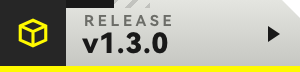
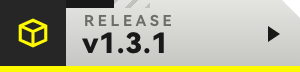
Add a Linux section to the READMEs and point them at v1.3.1
The Linux section links to HyprEndfield, a community Hyprland port by OctoberPrayRain, with its own banner and a warning that it is not made here. The top banners show the latest HUD screenshot and read MACOS / WINDOWS / LINUX, and the release button and download links move to v1.3.1 build 20.

Changed region(s): [[0.48, 0.4444, 0.57, 0.75]]

diff --git a/README.ja.md b/README.ja.md
@@ -1,7 +1,7 @@
-<a href="https://github.com/DDDuoDuo/EndfieldHUD/releases/tag/v1.3.0"><img src="docs/media/readme/panels/hero.ja.png" alt="ENDFIELD HUD：Mac と Windows のためのデスクトップ HUD、v1.3.0" width="100%"></a>
+<a href="https://github.com/DDDuoDuo/EndfieldHUD/releases/tag/v1.3.1"><img src="docs/media/readme/panels/hero.ja.png" alt="ENDFIELD HUD：Mac と Windows のためのデスクトップ HUD、v1.3.1" width="100%"></a>
 
 <p align="center">
-  <a href="https://github.com/DDDuoDuo/EndfieldHUD/releases/tag/v1.3.0"><img src="docs/media/readme/panels/button-release.png" alt="最新リリース v1.3.0" height="36"></a>
+  <a href="https://github.com/DDDuoDuo/EndfieldHUD/releases/tag/v1.3.1"><img src="docs/media/readme/panels/button-release.png" alt="最新リリース v1.3.1" height="36"></a>
   <a href="LICENSE"><img src="docs/media/readme/panels/button-license.png" alt="ライセンス：MIT" height="36"></a>
   <a href="#installation"><img src="docs/media/readme/panels/button-platform.png" alt="プラットフォーム：macOS / Windows" height="36"></a>
   <a href="https://docs.google.com/forms/d/e/1FAIpQLSeDwB4CzTp5kdT5ArjwIcQlvRS9UlVkQnMpGF3OHbYJ1_uBCg/viewform?usp=sharing"><img src="docs/media/readme/panels/button-feedback.ja.png" alt="不具合の報告・ご意見" height="36"></a>
@@ -28,14 +28,14 @@
 
 <img src="docs/media/readme/panels/sub-macos.ja.png" alt="macOS：Apple シリコン / Intel" width="100%">
 
-<a href="https://github.com/DDDuoDuo/EndfieldHUD/releases/tag/v1.3.0"><img src="docs/media/readme/panels/banner-macos.png" alt="macOS：PKG / DMG" width="100%"></a>
+<a href="https://github.com/DDDuoDuo/EndfieldHUD/releases/tag/v1.3.1"><img src="docs/media/readme/panels/banner-macos.png" alt="macOS：PKG / DMG" width="100%"></a>
 
 <sub>※ EndfieldHUD はメニューバーに表示されます。ショートカットひとつで、すべてのアプリの上に HUD が開きます</sub>
 
 <table>
 <tr>
 <td width="120"><img src="docs/media/readme/panels/chip-download.ja.png" alt="ダウンロード" width="112"></td>
-<td><a href="https://github.com/DDDuoDuo/EndfieldHUD/releases/download/v1.3.0/EndfieldHUD-1.3.0-build19-Installer.pkg"><b>PKG インストーラ</b></a> / <a href="https://github.com/DDDuoDuo/EndfieldHUD/releases/download/v1.3.0/EndfieldHUD-1.3.0-build19-macOS.dmg"><b>DMG</b></a> / <a href="https://github.com/DDDuoDuo/EndfieldHUD/releases">すべてのリリース</a></td>
+<td><a href="https://github.com/DDDuoDuo/EndfieldHUD/releases/download/v1.3.1/EndfieldHUD-1.3.1-build20-Installer.pkg"><b>PKG インストーラ</b></a> / <a href="https://github.com/DDDuoDuo/EndfieldHUD/releases/download/v1.3.1/EndfieldHUD-1.3.1-build20-macOS.dmg"><b>DMG</b></a> / <a href="https://github.com/DDDuoDuo/EndfieldHUD/releases">すべてのリリース</a></td>
 </tr>
 <tr>
 <td><img src="docs/media/readme/panels/chip-update.ja.png" alt="アップデート" width="112"></td>
@@ -58,14 +58,14 @@
 
 <img src="docs/media/readme/panels/sub-windows.ja.png" alt="Windows：Windows 11 x64" width="100%">
 
-<a href="https://github.com/DDDuoDuo/EndfieldHUD/releases/tag/v1.3.0"><img src="docs/media/readme/panels/banner-windows.png" alt="Windows：セットアップ（EXE）/ ポータブル版（ZIP）" width="100%"></a>
+<a href="https://github.com/DDDuoDuo/EndfieldHUD/releases/tag/v1.3.1"><img src="docs/media/readme/panels/banner-windows.png" alt="Windows：セットアップ（EXE）/ ポータブル版（ZIP）" width="100%"></a>
 
 <sub>※ Windows では、EndfieldHUD は通知領域（システムトレイ）に常駐します。HUD もショートカットも Mac と同じです</sub>
 
 <table>
 <tr>
 <td width="120"><img src="docs/media/readme/panels/chip-download.ja.png" alt="ダウンロード" width="112"></td>
-<td><a href="https://github.com/DDDuoDuo/EndfieldHUD/releases/download/v1.3.0/EndfieldHUD-1.3.0-build19-windows-x64-setup.exe"><b>セットアップ（EXE）</b></a> / <a href="https://github.com/DDDuoDuo/EndfieldHUD/releases/download/v1.3.0/EndfieldHUD-1.3.0-build19-windows-x64-portable.zip"><b>ポータブル版（ZIP）</b></a> / <a href="https://github.com/DDDuoDuo/EndfieldHUD/releases">すべてのリリース</a></td>
+<td><a href="https://github.com/DDDuoDuo/EndfieldHUD/releases/download/v1.3.1/EndfieldHUD-1.3.1-build20-windows-x64-setup.exe"><b>セットアップ（EXE）</b></a> / <a href="https://github.com/DDDuoDuo/EndfieldHUD/releases/download/v1.3.1/EndfieldHUD-1.3.1-build20-windows-x64-portable.zip"><b>ポータブル版（ZIP）</b></a> / <a href="https://github.com/DDDuoDuo/EndfieldHUD/releases">すべてのリリース</a></td>
 </tr>
 <tr>
 <td><img src="docs/media/readme/panels/chip-update.ja.png" alt="アップデート" width="112"></td>
@@ -91,6 +91,22 @@
 
 > [!WARNING]
 > Windows SmartScreen に **Windows によって PC が保護されました** と表示された場合は、**詳細情報 → 実行**を選んでください。アプリがまだコード署名されていないためです
+
+<br>
+
+<img src="docs/media/readme/panels/sub-linux.ja.png" alt="Linux：Hyprland / コミュニティ移植版" width="100%">
+
+<a href="https://github.com/OctoberPrayRain/HyprEndfield"><img src="docs/media/readme/panels/banner-linux.png" alt="Linux：Hyprland 向けの HyprEndfield" width="100%"></a>
+
+<table>
+<tr>
+<td width="120"><img src="docs/media/readme/panels/chip-download.ja.png" alt="ダウンロード" width="112"></td>
+<td><a href="https://github.com/OctoberPrayRain/HyprEndfield"><b>HyprEndfield</b></a>（作者：<a href="https://github.com/OctoberPrayRain">OctoberPrayRain</a>）</td>
+</tr>
+</table>
+
+> [!WARNING]
+> HyprEndfield は OctoberPrayRain さんが作ったコミュニティ移植版で、私が作ったものではありません。ご利用は自己責任でお願いします。使用によって生じたいかなる損失についても責任を負いません
 
 <br>
 

diff --git a/README.ko.md b/README.ko.md
@@ -1,7 +1,7 @@
-<a href="https://github.com/DDDuoDuo/EndfieldHUD/releases/tag/v1.3.0"><img src="docs/media/readme/panels/hero.ko.png" alt="ENDFIELD HUD: Mac과 Windows용 데스크톱 HUD, v1.3.0" width="100%"></a>
+<a href="https://github.com/DDDuoDuo/EndfieldHUD/releases/tag/v1.3.1"><img src="docs/media/readme/panels/hero.ko.png" alt="ENDFIELD HUD: Mac과 Windows용 데스크톱 HUD, v1.3.1" width="100%"></a>
 
 <p align="center">
-  <a href="https://github.com/DDDuoDuo/EndfieldHUD/releases/tag/v1.3.0"><img src="docs/media/readme/panels/button-release.png" alt="최신 릴리스 v1.3.0" height="36"></a>
+  <a href="https://github.com/DDDuoDuo/EndfieldHUD/releases/tag/v1.3.1"><img src="docs/media/readme/panels/button-release.png" alt="최신 릴리스 v1.3.1" height="36"></a>
   <a href="LICENSE"><img src="docs/media/readme/panels/button-license.png" alt="라이선스: MIT" height="36"></a>
   <a href="#installation"><img src="docs/media/readme/panels/button-platform.png" alt="플랫폼: macOS / Windows" height="36"></a>
   <a href="https://docs.google.com/forms/d/e/1FAIpQLSeDwB4CzTp5kdT5ArjwIcQlvRS9UlVkQnMpGF3OHbYJ1_uBCg/viewform?usp=sharing"><img src="docs/media/readme/panels/button-feedback.ko.png" alt="버그 제보 또는 제안" height="36"></a>
@@ -28,14 +28,14 @@
 
 <img src="docs/media/readme/panels/sub-macos.ko.png" alt="macOS: Apple silicon / Intel" width="100%">
 
-<a href="https://github.com/DDDuoDuo/EndfieldHUD/releases/tag/v1.3.0"><img src="docs/media/readme/panels/banner-macos.png" alt="macOS: PKG / DMG" width="100%"></a>
+<a href="https://github.com/DDDuoDuo/EndfieldHUD/releases/tag/v1.3.1"><img src="docs/media/readme/panels/banner-macos.png" alt="macOS: PKG / DMG" width="100%"></a>
 
 <sub>※ EndfieldHUD는 메뉴 막대에 나타나요. 단축키 하나로 모든 앱 위에 HUD가 열려요</sub>
 
 <table>
 <tr>
 <td width="120"><img src="docs/media/readme/panels/chip-download.ko.png" alt="다운로드" width="112"></td>
-<td><a href="https://github.com/DDDuoDuo/EndfieldHUD/releases/download/v1.3.0/EndfieldHUD-1.3.0-build19-Installer.pkg"><b>PKG 설치 프로그램</b></a> / <a href="https://github.com/DDDuoDuo/EndfieldHUD/releases/download/v1.3.0/EndfieldHUD-1.3.0-build19-macOS.dmg"><b>DMG</b></a> / <a href="https://github.com/DDDuoDuo/EndfieldHUD/releases">모든 릴리스</a></td>
+<td><a href="https://github.com/DDDuoDuo/EndfieldHUD/releases/download/v1.3.1/EndfieldHUD-1.3.1-build20-Installer.pkg"><b>PKG 설치 프로그램</b></a> / <a href="https://github.com/DDDuoDuo/EndfieldHUD/releases/download/v1.3.1/EndfieldHUD-1.3.1-build20-macOS.dmg"><b>DMG</b></a> / <a href="https://github.com/DDDuoDuo/EndfieldHUD/releases">모든 릴리스</a></td>
 </tr>
 <tr>
 <td><img src="docs/media/readme/panels/chip-update.ko.png" alt="업데이트" width="112"></td>
@@ -58,14 +58,14 @@
 
 <img src="docs/media/readme/panels/sub-windows.ko.png" alt="Windows: Windows 11 x64" width="100%">
 
-<a href="https://github.com/DDDuoDuo/EndfieldHUD/releases/tag/v1.3.0"><img src="docs/media/readme/panels/banner-windows.png" alt="Windows: 설치 프로그램(EXE) / 포터블(ZIP)" width="100%"></a>
+<a href="https://github.com/DDDuoDuo/EndfieldHUD/releases/tag/v1.3.1"><img src="docs/media/readme/panels/banner-windows.png" alt="Windows: 설치 프로그램(EXE) / 포터블(ZIP)" width="100%"></a>
 
 <sub>※ Windows에서는 EndfieldHUD가 알림 영역(시스템 트레이)에 있어요. HUD도 단축키도 같아요</sub>
 
 <table>
 <tr>
 <td width="120"><img src="docs/media/readme/panels/chip-download.ko.png" alt="다운로드" width="112"></td>
-<td><a href="https://github.com/DDDuoDuo/EndfieldHUD/releases/download/v1.3.0/EndfieldHUD-1.3.0-build19-windows-x64-setup.exe"><b>설치 프로그램(EXE)</b></a> / <a href="https://github.com/DDDuoDuo/EndfieldHUD/releases/download/v1.3.0/EndfieldHUD-1.3.0-build19-windows-x64-portable.zip"><b>포터블(ZIP)</b></a> / <a href="https://github.com/DDDuoDuo/EndfieldHUD/releases">모든 릴리스</a></td>
+<td><a href="https://github.com/DDDuoDuo/EndfieldHUD/releases/download/v1.3.1/EndfieldHUD-1.3.1-build20-windows-x64-setup.exe"><b>설치 프로그램(EXE)</b></a> / <a href="https://github.com/DDDuoDuo/EndfieldHUD/releases/download/v1.3.1/EndfieldHUD-1.3.1-build20-windows-x64-portable.zip"><b>포터블(ZIP)</b></a> / <a href="https://github.com/DDDuoDuo/EndfieldHUD/releases">모든 릴리스</a></td>
 </tr>
 <tr>
 <td><img src="docs/media/readme/panels/chip-update.ko.png" alt="업데이트" width="112"></td>
@@ -91,6 +91,22 @@
 
 > [!WARNING]
 > Windows SmartScreen에 **Windows의 PC 보호** 창이 뜨면 **추가 정보 → 실행**을 누르세요. 아직 코드 서명을 하지 않은 앱이기 때문이에요
+
+<br>
+
+<img src="docs/media/readme/panels/sub-linux.ko.png" alt="Linux: Hyprland / 커뮤니티 포팅" width="100%">
+
+<a href="https://github.com/OctoberPrayRain/HyprEndfield"><img src="docs/media/readme/panels/banner-linux.png" alt="Linux: Hyprland용 HyprEndfield" width="100%"></a>
+
+<table>
+<tr>
+<td width="120"><img src="docs/media/readme/panels/chip-download.ko.png" alt="다운로드" width="112"></td>
+<td><a href="https://github.com/OctoberPrayRain/HyprEndfield"><b>HyprEndfield</b></a> (제작: <a href="https://github.com/OctoberPrayRain">OctoberPrayRain</a>)</td>
+</tr>
+</table>
+
+> [!WARNING]
+> HyprEndfield는 OctoberPrayRain 님이 만든 커뮤니티 포팅판으로, 제가 만든 것이 아니에요. 사용에 따른 위험은 직접 감수해야 하며, 사용으로 생긴 어떤 손실에도 책임지지 않아요
 
 <br>
 

diff --git a/README.zh-TW.md b/README.zh-TW.md
@@ -1,7 +1,7 @@
-<a href="https://github.com/DDDuoDuo/EndfieldHUD/releases/tag/v1.3.0"><img src="docs/media/readme/panels/hero.zh-tw.png" alt="ENDFIELD HUD：適用於 Mac 和 Windows 的桌面 HUD，v1.3.0" width="100%"></a>
+<a href="https://github.com/DDDuoDuo/EndfieldHUD/releases/tag/v1.3.1"><img src="docs/media/readme/panels/hero.zh-tw.png" alt="ENDFIELD HUD：適用於 Mac 和 Windows 的桌面 HUD，v1.3.1" width="100%"></a>
 
 <p align="center">
-  <a href="https://github.com/DDDuoDuo/EndfieldHUD/releases/tag/v1.3.0"><img src="docs/media/readme/panels/button-release.png" alt="最新版本 v1.3.0" height="36"></a>
+  <a href="https://github.com/DDDuoDuo/EndfieldHUD/releases/tag/v1.3.1"><img src="docs/media/readme/panels/button-release.png" alt="最新版本 v1.3.1" height="36"></a>
   <a href="LICENSE"><img src="docs/media/readme/panels/button-license.png" alt="授權：MIT" height="36"></a>
   <a href="#installation"><img src="docs/media/readme/panels/button-platform.png" alt="平台：macOS / Windows" height="36"></a>
   <a href="https://docs.google.com/forms/d/e/1FAIpQLSeDwB4CzTp5kdT5ArjwIcQlvRS9UlVkQnMpGF3OHbYJ1_uBCg/viewform?usp=sharing"><img src="docs/media/readme/panels/button-feedback.zh-tw.png" alt="回報問題或提出建議" height="36"></a>
@@ -28,14 +28,14 @@
 
 <img src="docs/media/readme/panels/sub-macos.zh-tw.png" alt="macOS：Apple 晶片 / Intel" width="100%">
 
-<a href="https://github.com/DDDuoDuo/EndfieldHUD/releases/tag/v1.3.0"><img src="docs/media/readme/panels/banner-macos.png" alt="macOS：PKG / DMG" width="100%"></a>
+<a href="https://github.com/DDDuoDuo/EndfieldHUD/releases/tag/v1.3.1"><img src="docs/media/readme/panels/banner-macos.png" alt="macOS：PKG / DMG" width="100%"></a>
 
 <sub>※ EndfieldHUD 會出現在選單列裡。按一下快速鍵，HUD 就會出現在所有軟體的上方</sub>
 
 <table>
 <tr>
 <td width="120"><img src="docs/media/readme/panels/chip-download.zh-tw.png" alt="下載" width="112"></td>
-<td><a href="https://github.com/DDDuoDuo/EndfieldHUD/releases/download/v1.3.0/EndfieldHUD-1.3.0-build19-Installer.pkg"><b>PKG 安裝程式</b></a> / <a href="https://github.com/DDDuoDuo/EndfieldHUD/releases/download/v1.3.0/EndfieldHUD-1.3.0-build19-macOS.dmg"><b>DMG</b></a> / <a href="https://github.com/DDDuoDuo/EndfieldHUD/releases">所有版本</a></td>
+<td><a href="https://github.com/DDDuoDuo/EndfieldHUD/releases/download/v1.3.1/EndfieldHUD-1.3.1-build20-Installer.pkg"><b>PKG 安裝程式</b></a> / <a href="https://github.com/DDDuoDuo/EndfieldHUD/releases/download/v1.3.1/EndfieldHUD-1.3.1-build20-macOS.dmg"><b>DMG</b></a> / <a href="https://github.com/DDDuoDuo/EndfieldHUD/releases">所有版本</a></td>
 </tr>
 <tr>
 <td><img src="docs/media/readme/panels/chip-update.zh-tw.png" alt="更新" width="112"></td>
@@ -58,14 +58,14 @@
 
 <img src="docs/media/readme/panels/sub-windows.zh-tw.png" alt="Windows：Windows 11 x64" width="100%">
 
-<a href="https://github.com/DDDuoDuo/EndfieldHUD/releases/tag/v1.3.0"><img src="docs/media/readme/panels/banner-windows.png" alt="Windows：安裝程式（EXE）/ 免安裝版（ZIP）" width="100%"></a>
+<a href="https://github.com/DDDuoDuo/EndfieldHUD/releases/tag/v1.3.1"><img src="docs/media/readme/panels/banner-windows.png" alt="Windows：安裝程式（EXE）/ 免安裝版（ZIP）" width="100%"></a>
 
 <sub>※ 在 Windows 上，EndfieldHUD 待在通知區域（系統匣）裡。同樣的 HUD，同樣的快速鍵</sub>
 
 <table>
 <tr>
 <td width="120"><img src="docs/media/readme/panels/chip-download.zh-tw.png" alt="下載" width="112"></td>
-<td><a href="https://github.com/DDDuoDuo/EndfieldHUD/releases/download/v1.3.0/EndfieldHUD-1.3.0-build19-windows-x64-setup.exe"><b>安裝程式（EXE）</b></a> / <a href="https://github.com/DDDuoDuo/EndfieldHUD/releases/download/v1.3.0/EndfieldHUD-1.3.0-build19-windows-x64-portable.zip"><b>免安裝版（ZIP）</b></a> / <a href="https://github.com/DDDuoDuo/EndfieldHUD/releases">所有版本</a></td>
+<td><a href="https://github.com/DDDuoDuo/EndfieldHUD/releases/download/v1.3.1/EndfieldHUD-1.3.1-build20-windows-x64-setup.exe"><b>安裝程式（EXE）</b></a> / <a href="https://github.com/DDDuoDuo/EndfieldHUD/releases/download/v1.3.1/EndfieldHUD-1.3.1-build20-windows-x64-portable.zip"><b>免安裝版（ZIP）</b></a> / <a href="https://github.com/DDDuoDuo/EndfieldHUD/releases">所有版本</a></td>
 </tr>
 <tr>
 <td><img src="docs/media/readme/panels/chip-update.zh-tw.png" alt="更新" width="112"></td>
@@ -91,6 +91,22 @@
 
 > [!WARNING]
 > 如果 Windows SmartScreen 跳出**Windows 已保護您的電腦**，點**其他資訊 → 仍要執行**。這是因為 App 目前還沒有進行簽署
+
+<br>
+
+<img src="docs/media/readme/panels/sub-linux.zh-tw.png" alt="Linux：Hyprland / 社群移植版" width="100%">
+
+<a href="https://github.com/OctoberPrayRain/HyprEndfield"><img src="docs/media/readme/panels/banner-linux.png" alt="Linux：適用於 Hyprland 的 HyprEndfield" width="100%"></a>
+
+<table>
+<tr>
+<td width="120"><img src="docs/media/readme/panels/chip-download.zh-tw.png" alt="下載" width="112"></td>
+<td><a href="https://github.com/OctoberPrayRain/HyprEndfield"><b>HyprEndfield</b></a>（作者：<a href="https://github.com/OctoberPrayRain">OctoberPrayRain</a>）</td>
+</tr>
+</table>
+
+> [!WARNING]
+> HyprEndfield 是 OctoberPrayRain 製作的社群移植版，不是我製作的。請自行承擔使用風險，因使用它造成的任何損失我概不負責
 
 <br>
 

diff --git a/README.zh-CN.md b/README.zh-CN.md
@@ -1,7 +1,7 @@
-<a href="https://github.com/DDDuoDuo/EndfieldHUD/releases/tag/v1.3.0"><img src="docs/media/readme/panels/hero.zh-cn.png" alt="ENDFIELD HUD：适用于 Mac 和 Windows 的桌面 HUD，v1.3.0" width="100%"></a>
+<a href="https://github.com/DDDuoDuo/EndfieldHUD/releases/tag/v1.3.1"><img src="docs/media/readme/panels/hero.zh-cn.png" alt="ENDFIELD HUD：适用于 Mac 和 Windows 的桌面 HUD，v1.3.1" width="100%"></a>
 
 <p align="center">
-  <a href="https://github.com/DDDuoDuo/EndfieldHUD/releases/tag/v1.3.0"><img src="docs/media/readme/panels/button-release.png" alt="最新版本 v1.3.0" height="36"></a>
+  <a href="https://github.com/DDDuoDuo/EndfieldHUD/releases/tag/v1.3.1"><img src="docs/media/readme/panels/button-release.png" alt="最新版本 v1.3.1" height="36"></a>
   <a href="LICENSE"><img src="docs/media/readme/panels/button-license.png" alt="许可证：MIT" height="36"></a>
   <a href="#installation"><img src="docs/media/readme/panels/button-platform.png" alt="平台：macOS / Windows" height="36"></a>
   <a href="https://wj.qq.com/s2/28548057/ejeu/"><img src="docs/media/readme/panels/button-feedback.zh-cn.png" alt="反馈问题或提出建议" height="36"></a>
@@ -28,14 +28,14 @@
 
 <img src="docs/media/readme/panels/sub-macos.zh-cn.png" alt="macOS：Apple 芯片 / Intel" width="100%">
 
-<a href="https://github.com/DDDuoDuo/EndfieldHUD/releases/tag/v1.3.0"><img src="docs/media/readme/panels/banner-macos.png" alt="macOS：PKG / DMG" width="100%"></a>
+<a href="https://github.com/DDDuoDuo/EndfieldHUD/releases/tag/v1.3.1"><img src="docs/media/readme/panels/banner-macos.png" alt="macOS：PKG / DMG" width="100%"></a>
 
 <sub>※ EndfieldHUD 会出现在菜单栏里。按一下快捷键，HUD 就会出现在所有软件的上方</sub>
 
 <table>
 <tr>
 <td width="120"><img src="docs/media/readme/panels/chip-download.zh-cn.png" alt="下载" width="112"></td>
-<td><a href="https://github.com/DDDuoDuo/EndfieldHUD/releases/download/v1.3.0/EndfieldHUD-1.3.0-build19-Installer.pkg"><b>PKG 安装包</b></a> / <a href="https://github.com/DDDuoDuo/EndfieldHUD/releases/download/v1.3.0/EndfieldHUD-1.3.0-build19-macOS.dmg"><b>DMG</b></a> / <a href="https://github.com/DDDuoDuo/EndfieldHUD/releases">所有版本</a></td>
+<td><a href="https://github.com/DDDuoDuo/EndfieldHUD/releases/download/v1.3.1/EndfieldHUD-1.3.1-build20-Installer.pkg"><b>PKG 安装包</b></a> / <a href="https://github.com/DDDuoDuo/EndfieldHUD/releases/download/v1.3.1/EndfieldHUD-1.3.1-build20-macOS.dmg"><b>DMG</b></a> / <a href="https://github.com/DDDuoDuo/EndfieldHUD/releases">所有版本</a></td>
 </tr>
 <tr>
 <td><img src="docs/media/readme/panels/chip-update.zh-cn.png" alt="更新" width="112"></td>
@@ -58,14 +58,14 @@
 
 <img src="docs/media/readme/panels/sub-windows.zh-cn.png" alt="Windows：Windows 11 x64" width="100%">
 
-<a href="https://github.com/DDDuoDuo/EndfieldHUD/releases/tag/v1.3.0"><img src="docs/media/readme/panels/banner-windows.png" alt="Windows：安装程序（EXE）/ 便携版（ZIP）" width="100%"></a>
+<a href="https://github.com/DDDuoDuo/EndfieldHUD/releases/tag/v1.3.1"><img src="docs/media/readme/panels/banner-windows.png" alt="Windows：安装程序（EXE）/ 便携版（ZIP）" width="100%"></a>
 
 <sub>※ 在 Windows 上，EndfieldHUD 待在通知区域（系统托盘）里。同样的 HUD，同样的快捷键</sub>
 
 <table>
 <tr>
 <td width="120"><img src="docs/media/readme/panels/chip-download.zh-cn.png" alt="下载" width="112"></td>
-<td><a href="https://github.com/DDDuoDuo/EndfieldHUD/releases/download/v1.3.0/EndfieldHUD-1.3.0-build19-windows-x64-setup.exe"><b>安装程序（EXE）</b></a> / <a href="https://github.com/DDDuoDuo/EndfieldHUD/releases/download/v1.3.0/EndfieldHUD-1.3.0-build19-windows-x64-portable.zip"><b>便携版（ZIP）</b></a> / <a href="https://github.com/DDDuoDuo/EndfieldHUD/releases">所有版本</a></td>
+<td><a href="https://github.com/DDDuoDuo/EndfieldHUD/releases/download/v1.3.1/EndfieldHUD-1.3.1-build20-windows-x64-setup.exe"><b>安装程序（EXE）</b></a> / <a href="https://github.com/DDDuoDuo/EndfieldHUD/releases/download/v1.3.1/EndfieldHUD-1.3.1-build20-windows-x64-portable.zip"><b>便携版（ZIP）</b></a> / <a href="https://github.com/DDDuoDuo/EndfieldHUD/releases">所有版本</a></td>
 </tr>
 <tr>
 <td><img src="docs/media/readme/panels/chip-update.zh-cn.png" alt="更新" width="112"></td>
@@ -91,6 +91,22 @@
 
 > [!WARNING]
 > 如果 Windows SmartScreen 弹出**Windows 已保护你的电脑**，点**更多信息 → 仍要运行**。这是因为应用目前还没有进行签名
+
+<br>
+
+<img src="docs/media/readme/panels/sub-linux.zh-cn.png" alt="Linux：Hyprland / 社区移植版" width="100%">
+
+<a href="https://github.com/OctoberPrayRain/HyprEndfield"><img src="docs/media/readme/panels/banner-linux.png" alt="Linux：适用于 Hyprland 的 HyprEndfield" width="100%"></a>
+
+<table>
+<tr>
+<td width="120"><img src="docs/media/readme/panels/chip-download.zh-cn.png" alt="下载" width="112"></td>
+<td><a href="https://github.com/OctoberPrayRain/HyprEndfield"><b>HyprEndfield</b></a>（作者：<a href="https://github.com/OctoberPrayRain">OctoberPrayRain</a>）</td>
+</tr>
+</table>
+
+> [!WARNING]
+> HyprEndfield 是 OctoberPrayRain 制作的社区移植版，不是我制作的。请自行承担使用风险，因使用它造成的任何损失我概不负责
 
 <br>
 

diff --git a/README.md b/README.md
@@ -1,7 +1,7 @@
-<a href="https://github.com/DDDuoDuo/EndfieldHUD/releases/tag/v1.3.0"><img src="docs/media/readme/panels/hero.png" alt="ENDFIELD HUD: a desktop HUD for Mac &amp; Windows, v1.3.0" width="100%"></a>
+<a href="https://github.com/DDDuoDuo/EndfieldHUD/releases/tag/v1.3.1"><img src="docs/media/readme/panels/hero.png" alt="ENDFIELD HUD: a desktop HUD for Mac &amp; Windows, v1.3.1" width="100%"></a>
 
 <p align="center">
-  <a href="https://github.com/DDDuoDuo/EndfieldHUD/releases/tag/v1.3.0"><img src="docs/media/readme/panels/button-release.png" alt="Latest release v1.3.0" height="36"></a>
+  <a href="https://github.com/DDDuoDuo/EndfieldHUD/releases/tag/v1.3.1"><img src="docs/media/readme/panels/button-release.png" alt="Latest release v1.3.1" height="36"></a>
   <a href="LICENSE"><img src="docs/media/readme/panels/button-license.png" alt="License: MIT" height="36"></a>
   <a href="#installation"><img src="docs/media/readme/panels/button-platform.png" alt="Platform: macOS / Windows" height="36"></a>
   <a href="https://docs.google.com/forms/d/e/1FAIpQLSeDwB4CzTp5kdT5ArjwIcQlvRS9UlVkQnMpGF3OHbYJ1_uBCg/viewform?usp=sharing"><img src="docs/media/readme/panels/button-feedback.png" alt="Report bugs or give suggestions" height="36"></a>
@@ -28,14 +28,14 @@
 
 <img src="docs/media/readme/panels/sub-macos.png" alt="macOS: Apple silicon / Intel" width="100%">
 
-<a href="https://github.com/DDDuoDuo/EndfieldHUD/releases/tag/v1.3.0"><img src="docs/media/readme/panels/banner-macos.png" alt="macOS: PKG / DMG" width="100%"></a>
+<a href="https://github.com/DDDuoDuo/EndfieldHUD/releases/tag/v1.3.1"><img src="docs/media/readme/panels/banner-macos.png" alt="macOS: PKG / DMG" width="100%"></a>
 
 <sub>※ EndfieldHUD lives in the menu bar. One hotkey brings the HUD up over whatever you're doing.</sub>
 
 <table>
 <tr>
 <td width="120"><img src="docs/media/readme/panels/chip-download.png" alt="Download" width="112"></td>
-<td><a href="https://github.com/DDDuoDuo/EndfieldHUD/releases/download/v1.3.0/EndfieldHUD-1.3.0-build19-Installer.pkg"><b>PKG installer</b></a> / <a href="https://github.com/DDDuoDuo/EndfieldHUD/releases/download/v1.3.0/EndfieldHUD-1.3.0-build19-macOS.dmg"><b>DMG</b></a> / <a href="https://github.com/DDDuoDuo/EndfieldHUD/releases">All releases</a></td>
+<td><a href="https://github.com/DDDuoDuo/EndfieldHUD/releases/download/v1.3.1/EndfieldHUD-1.3.1-build20-Installer.pkg"><b>PKG installer</b></a> / <a href="https://github.com/DDDuoDuo/EndfieldHUD/releases/download/v1.3.1/EndfieldHUD-1.3.1-build20-macOS.dmg"><b>DMG</b></a> / <a href="https://github.com/DDDuoDuo/EndfieldHUD/releases">All releases</a></td>
 </tr>
 <tr>
 <td><img src="docs/media/readme/panels/chip-update.png" alt="Update" width="112"></td>
@@ -58,14 +58,14 @@
 
 <img src="docs/media/readme/panels/sub-windows.png" alt="Windows: Windows 11 x64" width="100%">
 
-<a href="https://github.com/DDDuoDuo/EndfieldHUD/releases/tag/v1.3.0"><img src="docs/media/readme/panels/banner-windows.png" alt="Windows: Setup EXE / Portable ZIP" width="100%"></a>
+<a href="https://github.com/DDDuoDuo/EndfieldHUD/releases/tag/v1.3.1"><img src="docs/media/readme/panels/banner-windows.png" alt="Windows: Setup EXE / Portable ZIP" width="100%"></a>
 
 <sub>※ On Windows, EndfieldHUD lives in the notification area (system tray). Same HUD, same hotkey.</sub>
 
 <table>
 <tr>
 <td width="120"><img src="docs/media/readme/panels/chip-download.png" alt="Download" width="112"></td>
-<td><a href="https://github.com/DDDuoDuo/EndfieldHUD/releases/download/v1.3.0/EndfieldHUD-1.3.0-build19-windows-x64-setup.exe"><b>Setup EXE</b></a> / <a href="https://github.com/DDDuoDuo/EndfieldHUD/releases/download/v1.3.0/EndfieldHUD-1.3.0-build19-windows-x64-portable.zip"><b>Portable ZIP</b></a> / <a href="https://github.com/DDDuoDuo/EndfieldHUD/releases">All releases</a></td>
+<td><a href="https://github.com/DDDuoDuo/EndfieldHUD/releases/download/v1.3.1/EndfieldHUD-1.3.1-build20-windows-x64-setup.exe"><b>Setup EXE</b></a> / <a href="https://github.com/DDDuoDuo/EndfieldHUD/releases/download/v1.3.1/EndfieldHUD-1.3.1-build20-windows-x64-portable.zip"><b>Portable ZIP</b></a> / <a href="https://github.com/DDDuoDuo/EndfieldHUD/releases">All releases</a></td>
 </tr>
 <tr>
 <td><img src="docs/media/readme/panels/chip-update.png" alt="Update" width="112"></td>
@@ -91,6 +91,22 @@
 
 > [!WARNING]
 > If Windows SmartScreen shows **Windows protected your PC**, choose **More info → Run anyway**. The app isn't code-signed yet.
+
+<br>
+
+<img src="docs/media/readme/panels/sub-linux.png" alt="Linux: Hyprland / Community port" width="100%">
+
+<a href="https://github.com/OctoberPrayRain/HyprEndfield"><img src="docs/media/readme/panels/banner-linux.png" alt="Linux: HyprEndfield for Hyprland" width="100%"></a>
+
+<table>
+<tr>
+<td width="120"><img src="docs/media/readme/panels/chip-download.png" alt="Download" width="112"></td>
+<td><a href="https://github.com/OctoberPrayRain/HyprEndfield"><b>HyprEndfield</b></a> by <a href="https://github.com/OctoberPrayRain">OctoberPrayRain</a></td>
+</tr>
+</table>
+
+> [!WARNING]
+> HyprEndfield is a community port made by OctoberPrayRain, not by me. Use it at your own risk. I'm not responsible for any loss it causes.
 
 <br>
 
